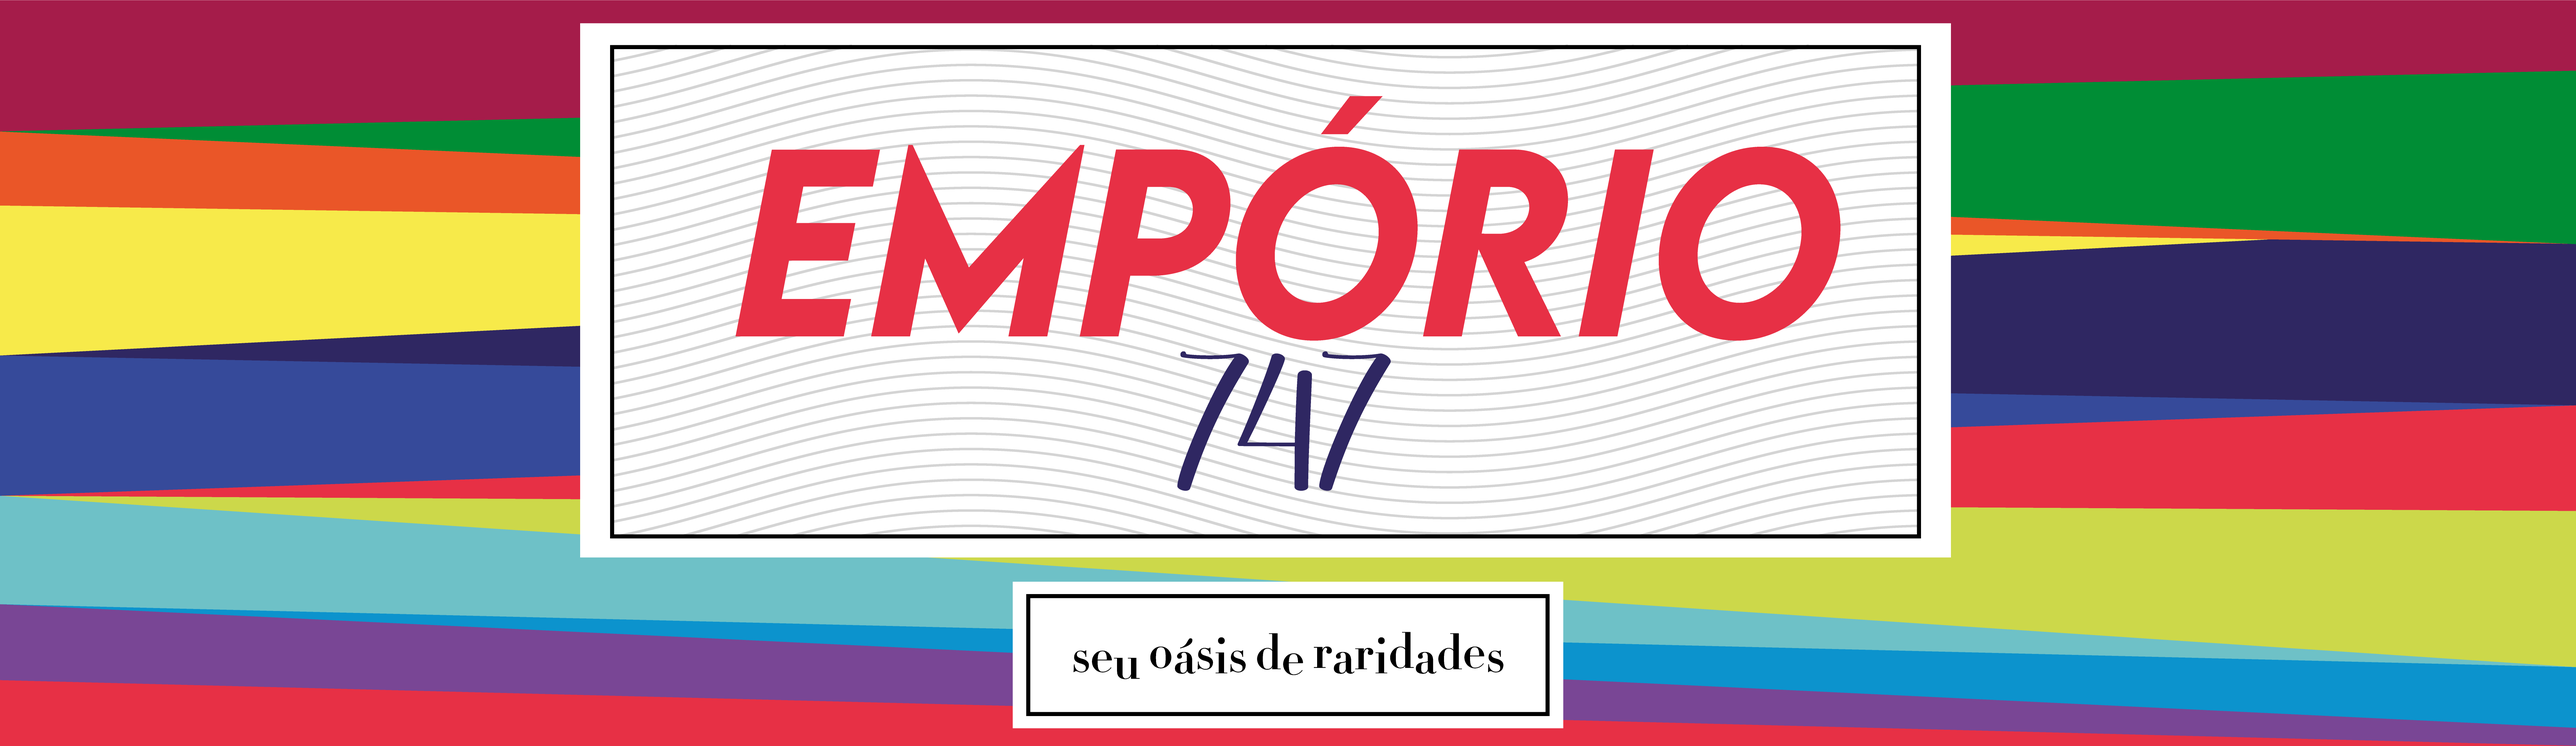
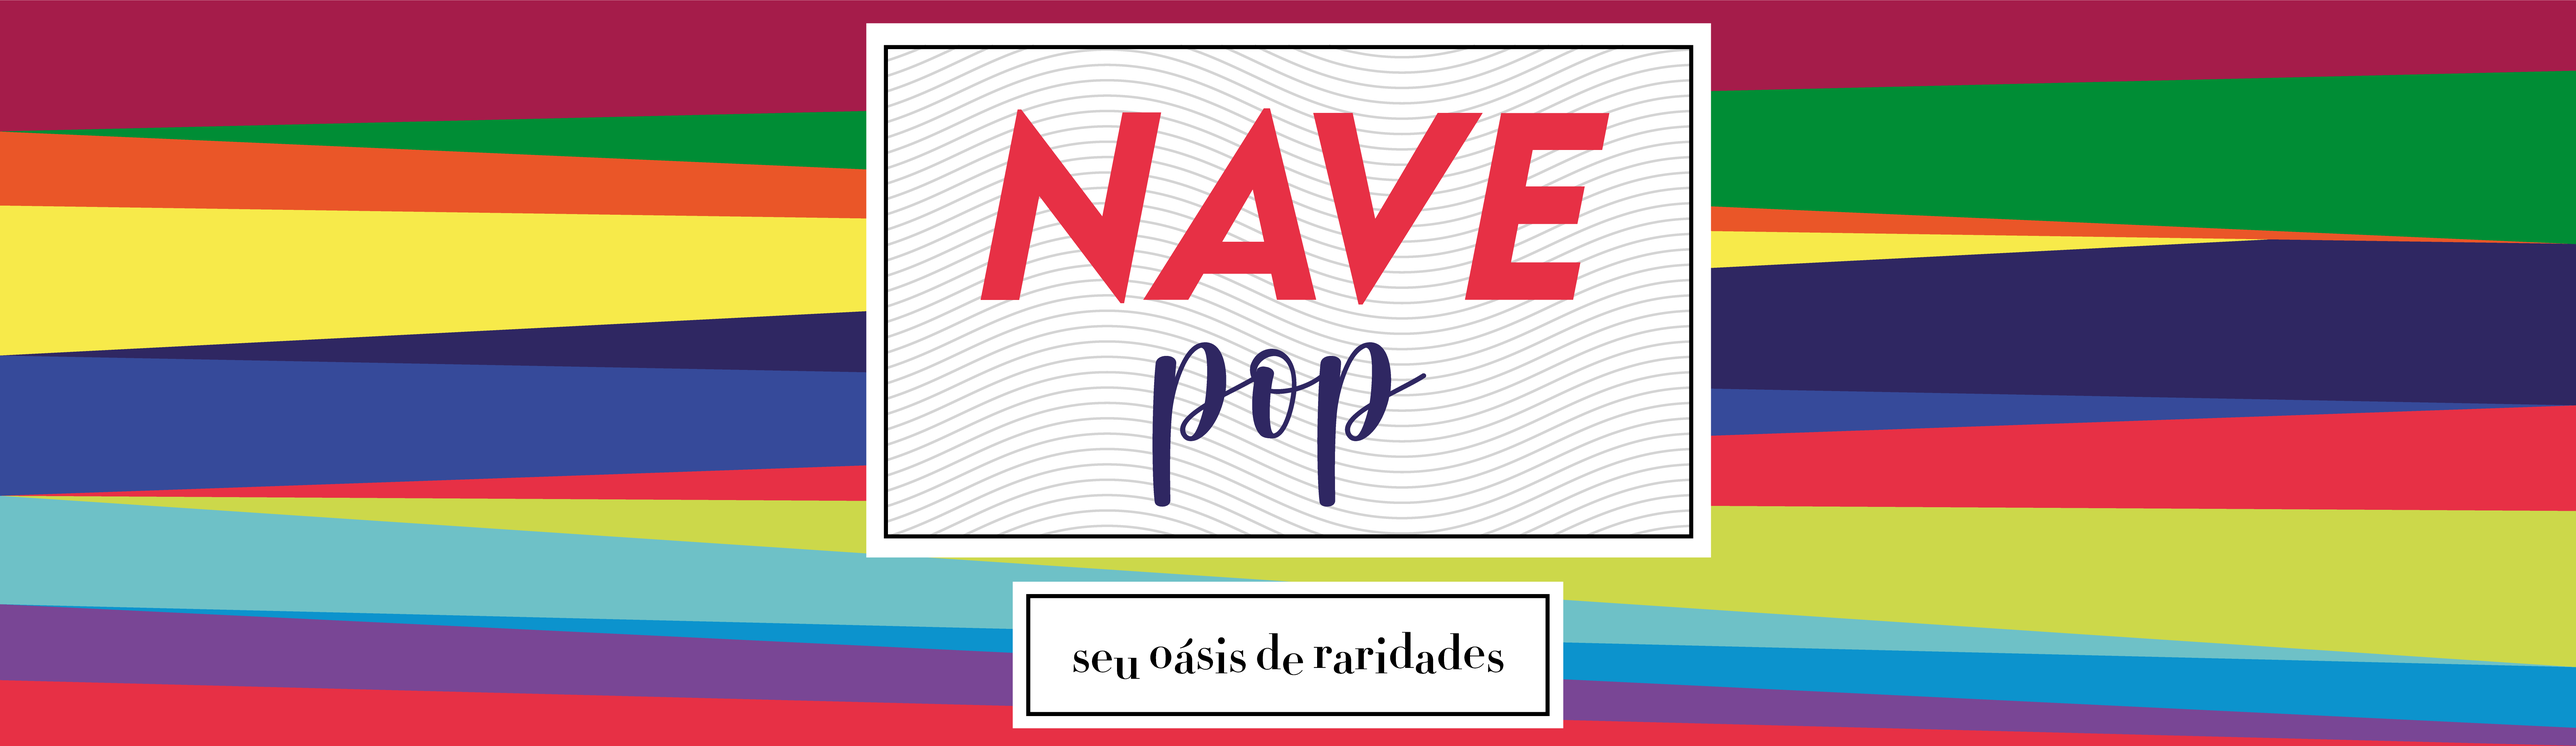
commit

Changed region(s): [[0.2184, 0.031, 0.78, 0.7741]]

diff --git a/src/icons/logo.jsx b/src/icons/logo.jsx
@@ -8,10 +8,58 @@ function Logo(props) {
         data-name="Layer 1"
         viewBox="0 0 32 32"
       >
-        <rect width="32" height="32" rx="4"></rect>
         <path
           fill="#fff"
-          d="M23.72 25.45H8.25s-.05-.05-.05-.16 0-.16.05-.16h2.35c.11 0 .16 0 .16-.1V7c0-.07 0-.1-.16-.1H8.25s-.05-.06-.05-.16 0-.16.05-.16h14.06c.07 0 .1 0 .1.08v5.65s-.05.05-.16.05-.16 0-.16-.05a6.31 6.31 0 00-.3-1.89 5.83 5.83 0 00-.91-1.75 4.68 4.68 0 00-1.53-1.28 4.58 4.58 0 00-2.16-.49h-2.56c-.13 0-.19 0-.19.1v8.62h.61a3.31 3.31 0 001.44-.31 3.59 3.59 0 001.11-.8 3.32 3.32 0 00.71-1.15 3.83 3.83 0 00.24-1.36s0-.06.13-.06.13 0 .13.06v7.52h-.26a3.76 3.76 0 00-.24-1.32 3.36 3.36 0 00-.71-1.2 3.64 3.64 0 00-1.11-.82 3.31 3.31 0 00-1.44-.3h-.61V25c0 .07.06.1.19.1h2.64a6.74 6.74 0 002.81-.54 6 6 0 002-1.4 5.69 5.69 0 001.12-1.91 6.43 6.43 0 00.36-2.09s0-.06.13-.06.16 0 .16.06v6.18c-.05.09-.08.11-.13.11z"
+          d="M11.6 11.75H20.2V20.35H11.6z"
+          transform="rotate(-73.15 15.897 16.048)"
+        ></path>
+        <path
+          fill="#008d35"
+          d="M10.54 18.92L-0.15 15.1 -0.15 7.33 10.54 18.92z"
+        ></path>
+        <path
+          fill="#e73045"
+          d="M10.54 18.92L-0.15 7.33 -0.15 0 5.19 0 10.54 18.92z"
+        ></path>
+        <path
+          fill="#a51c4a"
+          d="M10.54 18.92L5.19 0 16.27 0 10.54 18.92z"
+        ></path>
+        <path
+          fill="#ea5628"
+          d="M13.03 10.69L16.06 0 24.53 0 13.03 10.69z"
+        ></path>
+        <path
+          fill="#f7ea4a"
+          d="M13.03 10.69L31.95 6.45 31.95 0 24.53 0 13.03 10.69z"
+        ></path>
+        <path
+          fill="#2f2762"
+          d="M13.03 10.69L21.27 13.15 31.95 16.34 31.95 6.45 13.03 10.69z"
+        ></path>
+        <path
+          fill="#364a9a"
+          d="M21.27 13.15L31.95 16.34 31.95 25.79 21.27 13.15z"
+        ></path>
+        <path
+          fill="#008d36"
+          d="M21.27 13.15L24.53 32.1 31.95 32.1 31.95 25.79 21.27 13.15z"
+        ></path>
+        <path
+          fill="#ccd84a"
+          d="M21.27 13.15L15.53 32.1 24.53 32.1 21.27 13.15z"
+        ></path>
+        <path
+          fill="#6ec1c7"
+          d="M18.77 21.41L8.53 32.1 15.9 32.1 18.77 21.41z"
+        ></path>
+        <path
+          fill="#0c93cd"
+          d="M18.77 21.41L-0.15 25.51 -0.15 32.1 8.53 32.1 18.77 21.41z"
+        ></path>
+        <path
+          fill="#794695"
+          d="M18.77 21.41L-0.15 25.51 -0.15 15.06 18.77 21.41z"
         ></path>
       </svg>
     </div>

diff --git a/src/components/footer.jsx b/src/components/footer.jsx
@@ -17,7 +17,7 @@ export function Footer() {
         <div className={logos}>
           <Logo />
         </div>
-        <strong>Empório 747</strong>
+        <strong>Nave Pop</strong>
       </div>
       <nav className={links} aria-label="footer">
         <ul className={footerNavList}>
